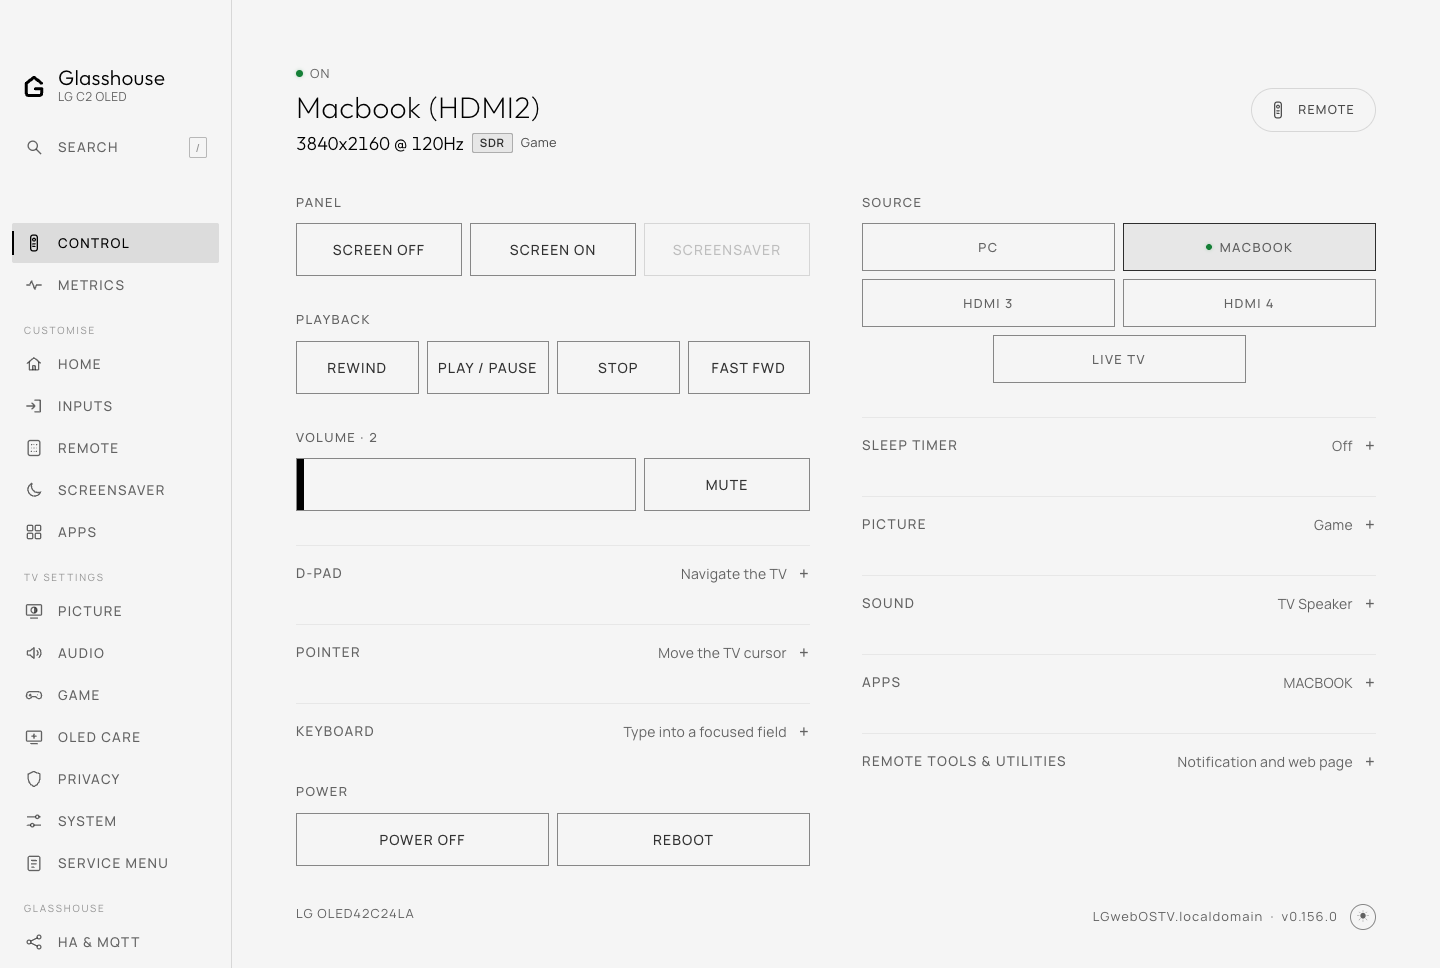
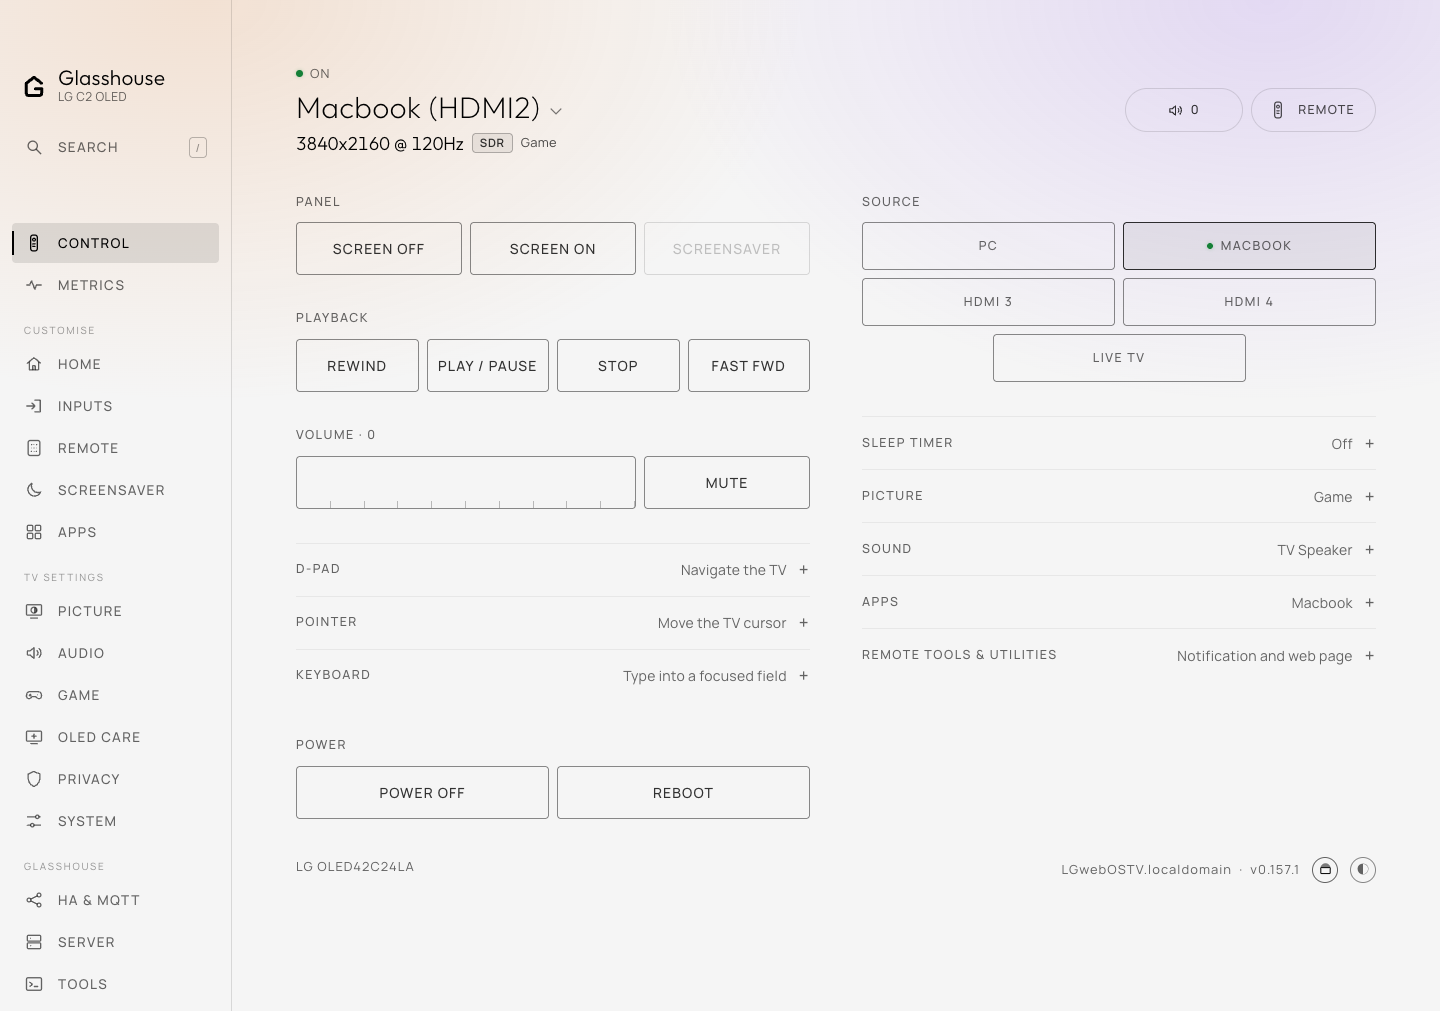
Screen glow: waits for PicCap and Hue Sync, documented, and in the screenshots
PicCap and Hue Sync stream from the TV's capture hardware, and a capture of
the glow's beside theirs could stall their stream: while either captures,
/api/screen-colour answers busy without a capture and the glow fades. The
dashboard overview has a Screen glow section, the PicCap and Hue Sync
pages say the glow waits for them, and the README's and docs' dashboard
screenshots are retaken with the glow on.

diff --git a/test/test-screencolour.js b/test/test-screencolour.js
@@ -103,7 +103,7 @@ console.log('  ✓ one capture for close requests, the service that answers kept
   var cfgPath = path.join(os.tmpdir(), 'tvweb-screenglow-' + process.pid + '.json');
   fs.writeFileSync(cfgPath, JSON.stringify({ port: 8080 }), 'utf8');
   var config = { web: { enabled: false }, token: '', allowControl: true };
-  var captures = 0;
+  var captures = 0, piccap = null, huesync = null;
   sc.init({
     luna: function (uri, payload, cb) { captures++; cb({ returnValue: false }); },
     readFile: function () { throw new Error('none'); },
@@ -114,6 +114,8 @@ console.log('  ✓ one capture for close requests, the service that answers kept
     configFile: cfgPath,
     version: '0.157.1',
     screenColour: sc,
+    piccapStatus: function (cb) { cb(piccap); },
+    huesyncStatus: function (cb) { cb(huesync); },
     updater: { updateSummary: function () { return { ok: true, writable: true }; } },
     privacy: { tvUpdatesBlocked: function () { return false; } }
   });
@@ -138,9 +140,18 @@ console.log('  ✓ one capture for close requests, the service that answers kept
   });
   controls.doControl('setScreenGlowAllowed', true, function (r) { checks++; assert.strictEqual(r.screenGlowAllowed, true); });
   get('/api/screen-colour', function (r) { checks++; assert.strictEqual(r.off, undefined); assert.ok(captures > 0); });
+  // PicCap or Hue Sync capturing: the glow waits, without a capture of its own.
+  var before = captures;
+  piccap = { running: true };
+  get('/api/screen-colour', function (r) { checks++; assert.deepEqual(r, { ok: false, busy: 'piccap' }); });
+  piccap = { running: false };
+  huesync = { streaming: true };
+  get('/api/screen-colour', function (r) { checks++; assert.deepEqual(r, { ok: false, busy: 'huesync' }); });
+  assert.strictEqual(captures, before, 'no capture beside theirs');
   try { fs.unlinkSync(cfgPath); } catch (e) {}
-  assert.strictEqual(checks, 4, 'every callback ran');
+  assert.strictEqual(checks, 6, 'every callback ran');
   console.log('  ✓ the Server tab switch saves the setting, and while it is off nothing is captured');
+  console.log('  ✓ while PicCap or Hue Sync captures the screen, the glow waits');
 })();
 
 console.log('ALL test-screencolour.js assertions passed!');

diff --git a/server/lib/routes.js b/server/lib/routes.js
@@ -2248,7 +2248,19 @@ function handleRequest(req, res) {
   // The colours on screen, for the dashboard's glow: colours only, no picture.
   if (pathname === '/api/screen-colour' && screenColourModule) {
     if (!screenGlowAllowed()) return send(res, 200, JSON.stringify({ ok: false, off: true }));
-    return screenColourModule.read(function (c) { send(res, 200, JSON.stringify(c)); });
+    /*
+     * PicCap and Hue Sync stream from the TV's capture hardware themselves, and
+     * a capture of ours beside theirs could stall their stream. While either is
+     * capturing, the glow waits. Their status is asked as the stats ask it for
+     * the Ambient Light tab, from the same caches.
+     */
+    return piccapStatusFn(function (pc) {
+      huesyncStatusFn(function (hs) {
+        var busy = pc && pc.running ? 'piccap' : hs && hs.streaming ? 'huesync' : null;
+        if (busy) return send(res, 200, JSON.stringify({ ok: false, busy: busy }));
+        screenColourModule.read(function (c) { send(res, 200, JSON.stringify(c)); });
+      });
+    });
   }
   if (pathname === '/api/storage' && storageScanModule) {
     // A rescan only by POST, so a page load never forces one.

diff --git a/server/assets/ui/glow.js b/server/assets/ui/glow.js
@@ -4,7 +4,8 @@
  * switched on with the footer's button, kept per browser, and offered only
  * where the Server tab allows it. Read from /api/screen-colour every few
  * seconds, only while the page shows and the screen is on, and not while the
- * source says a game is playing (ALLM), so a game's frames are left alone.
+ * source says a game is playing (ALLM), so a game's frames are left alone,
+ * nor while PicCap or Hue Sync is capturing the screen itself.
  * LG's Game picture mode alone does not stop it: a computer is often shown
  * in it for its low latency. Given up for the visit where the TV gives no
  * capture.
@@ -130,7 +131,9 @@ async function glowTick() {
   try {
     const d = await (await fetch(api('/api/screen-colour'), { cache: 'no-store' })).json();
     if (d && d.off) { glowAllowed(false); return; }
-    if (!d || !d.ok) glowFails++;
+    // PicCap or Hue Sync is capturing: no glow until it stops, and no failure.
+    if (d && d.busy) glowFade();
+    else if (!d || !d.ok) glowFails++;
     else {
       glowFails = 0;
       // Stronger on a bright picture, and nothing from a dark one.

diff --git a/docs/dashboard/server.md b/docs/dashboard/server.md
@@ -22,7 +22,7 @@ Shows the installed version and whether a newer release is out. **Check now** lo
 
 **Watch time** counts how long the screen is on, per app and input, for [the Metrics tab](metrics.md#watch-time) and Home Assistant. It is off by default, as it records what the household watches. **Clear history** deletes what has been kept, whether counting is on or off.
 
-**Screen glow** lets a dashboard light the top of its page with the colours on the TV's screen, the left and right halves each lighting their side, as a room takes its light from the TV. Each browser switches it on under **Preferences** in the sidebar, or with the glow button beside the light and dark switch at the foot of the page, and it is off until then. Searching for "glow" finds both. While it is on and the page shows, the dashboard reads the colours every 3 seconds: the TV captures its screen at 64 by 36 pixels, works out the colours and deletes the capture, so only the colours leave the TV. It pauses while the source says a game is playing, and gives nothing over protected video, such as Netflix's, which the TV captures as black. Switched off here, no dashboard can turn the glow on.
+**Screen glow** lets a dashboard light the top of its page with the colours on the TV's screen, the left and right halves each lighting their side, as a room takes its light from the TV. Each browser switches it on under **Preferences** in the sidebar, or with the glow button beside the light and dark switch at the foot of the page, and it is off until then. Searching for "glow" finds both. While it is on and the page shows, the dashboard reads the colours every 3 seconds: the TV captures its screen at 64 by 36 pixels, works out the colours and deletes the capture, so only the colours leave the TV. It pauses while the source says a game is playing, or while PicCap or Hue Sync is capturing the screen, and gives nothing over protected video, such as Netflix's, which the TV captures as black. Switched off here, no dashboard can turn the glow on. See [Screen glow](index.md#screen-glow).
 
 **Settings backup** saves the TV's settings to a file, and restores one, on the same TV or another. A restore sets only the settings the TV has and offers, each the way its switch on the dashboard would, skips those LG greys out at the moment, such as an HDMI input's settings while another input is on screen, and says how many it changed and skipped. Glasshouse restarts if its own settings changed. A backup also lists the apps installed from the Homebrew Channel or by hand. A restore installs none of them itself: those the TV lacks and the Homebrew Channel catalog has are offered on the [Apps tab](apps.md) with **Install all**, each through its usual preview, which stops for a choice such as root, and those not in the catalog are named to install by hand.
 

diff --git a/docs/dashboard/index.md b/docs/dashboard/index.md
@@ -116,6 +116,12 @@ For companion applications, see [Glasshouse apps](../apps/tv-app.md), including 
 
 The page works with no internet access, and has a dark/light mode toggle (via the UI or `/?theme=light`).
 
+## Screen glow
+
+The dashboard can take its light from the TV. The top of the page, the sidebar included, glows with the colours on the TV's screen, the left half's colour on the left and the right half's on the right, and fades as the picture changes, as a room takes its light from the TV. It is off until switched on in this browser under **Preferences** in the sidebar, or with the glow button beside the light and dark switch at the foot of the page. Searching for "glow" finds both.
+
+While the glow is on and the page shows, the TV captures a 64 by 36 pixel copy of its screen every 3 seconds, works out its colours and deletes the copy, so only the colours leave the TV. The glow pauses while the screen is off, while the source says a game is playing, and while PicCap or Hue Sync is capturing the screen, and protected video, such as Netflix's, gives none. **Screen glow** on the [Server](server.md) tab switches it off for every browser.
+
 The footer names the TV, by its DNS name where the home network's DNS has one or else by its address, beside the Glasshouse version, and gives its model where the TV's name does not already include it.
 
 Use the search button at the top of the sidebar (or press `/` or `Ctrl`/`Cmd` + `K`)
@@ -126,10 +132,10 @@ with the star beside a search result, keeping shortcuts to them in the sidebar.
 
 === "Dark theme"
 
-    ![Metrics tab: SoC temperature, system readouts, storage, watch time, Magic Remote battery and HDMI ports, dark theme (OLED42C24LA)](../screenshots/dashboard.png)
+    ![Metrics tab: SoC temperature, system readouts, storage and Magic Remote battery, dark theme, with the screen glow on (OLED42C24LA)](../screenshots/dashboard.png)
 
 === "Light theme"
 
-    ![Control tab: panel, source, volume, playback, sleep timer and power, light theme (OLED42C24LA)](../screenshots/dashboard-light.png)
+    ![Control tab: panel, source, volume, playback, sleep timer and power, light theme, with the screen glow on (OLED42C24LA)](../screenshots/dashboard-light.png)
 
-*Metrics and Control tabs, shown in dark and light themes.*
+*Metrics and Control tabs, shown in dark and light themes, with the [screen glow](#screen-glow) taking its colours from the TV.*

diff --git a/README.md b/README.md
@@ -88,11 +88,11 @@ This project is intended to give a rooted webOS TV a useful local control surfac
 ## Screenshots
 
 <p align="center">
-  <a href="docs/screenshots/dashboard.png"><img src="docs/screenshots/dashboard.png" alt="Metrics tab: SoC temperature, system readouts, storage, watch time, Magic Remote battery and HDMI ports, dark theme (OLED42C24LA)" width="440"></a>
+  <a href="docs/screenshots/dashboard.png"><img src="docs/screenshots/dashboard.png" alt="Metrics tab: SoC temperature, system readouts, storage and Magic Remote battery, dark theme, with the screen glow on (OLED42C24LA)" width="440"></a>
   &nbsp;
-  <a href="docs/screenshots/dashboard-light.png"><img src="docs/screenshots/dashboard-light.png" alt="Control tab: panel, source, volume, playback, sleep timer and power, light theme (OLED42C24LA)" width="440"></a>
+  <a href="docs/screenshots/dashboard-light.png"><img src="docs/screenshots/dashboard-light.png" alt="Control tab: panel, source, volume, playback, sleep timer and power, light theme, with the screen glow on (OLED42C24LA)" width="440"></a>
   <br>
-  <sub>Metrics and Control tabs, shown in dark and light themes.</sub>
+  <sub>Metrics and Control tabs, shown in dark and light themes, with the <a href="https://rorygallagher2024.github.io/glasshouse/dashboard/#screen-glow">screen glow</a> taking its colours from the TV.</sub>
 </p>
 
 [More screenshots](https://rorygallagher2024.github.io/glasshouse/#screenshots), including Home Assistant.

diff --git a/docs/index.md b/docs/index.md
@@ -41,11 +41,11 @@ Use it for remote control, app installation and removal, OLED panel care, privac
 === "Web dashboard"
 
     <p align="center">
-      <a href="screenshots/dashboard.png"><img src="screenshots/dashboard.png" alt="Metrics tab: SoC temperature, system readouts, storage, watch time, Magic Remote battery and HDMI ports, dark theme (OLED42C24LA)" width="440"></a>
+      <a href="screenshots/dashboard.png"><img src="screenshots/dashboard.png" alt="Metrics tab: SoC temperature, system readouts, storage and Magic Remote battery, dark theme, with the screen glow on (OLED42C24LA)" width="440"></a>
       &nbsp;
-      <a href="screenshots/dashboard-light.png"><img src="screenshots/dashboard-light.png" alt="Control tab: panel, source, volume, playback, sleep timer and power, light theme (OLED42C24LA)" width="440"></a>
+      <a href="screenshots/dashboard-light.png"><img src="screenshots/dashboard-light.png" alt="Control tab: panel, source, volume, playback, sleep timer and power, light theme, with the screen glow on (OLED42C24LA)" width="440"></a>
       <br>
-      <sub>Metrics and Control tabs in dark and light themes — served directly from the TV with no cloud or external dependencies.</sub>
+      <sub>Metrics and Control tabs in dark and light themes, with the <a href="dashboard/#screen-glow">screen glow</a> taking its colours from the TV, served directly from the TV with no cloud or external dependencies.</sub>
     </p>
 
 === "Remote"

diff --git a/docs/huesync.md b/docs/huesync.md
@@ -20,6 +20,8 @@ When Hue Sync is installed, the **Ambient Light** page (`/?tab=ambient`), below 
 * **On:** Instructs Hue Sync's service to start streaming (`com.lighting.huesync.service/set` with `{"key":"streaming","data":true}`). The selected entertainment area starts following the screen for ambient light. The app often does not start on an enable without saying so, so Glasshouse sends the enable, waits 3 seconds and asks the app's own state; if it still is not streaming, it sends the enable again, up to three tries in all: one click is enough.
 * **Off:** Instructs the service to stop (`data: false`). The app stops streaming colour data to the selected entertainment area.
 
+While Hue Sync is streaming, the dashboard's [screen glow](dashboard/index.md#screen-glow) waits, so its own captures never run beside Hue Sync's.
+
 ### Home Assistant integration
 
 When Hue Sync is answering on the TV, Glasshouse discovers a **Hue Sync** switch in Home Assistant (`switch.<tv_name>_huesync`) under the **Controls & Media** category:

diff --git a/docs/IMPLEMENTATION.md b/docs/IMPLEMENTATION.md
@@ -1577,7 +1577,10 @@ black.
 `assets/ui/glow.js` reads it while its browser has the glow on, the Server
 tab allows it (`screenGlow.allowed`, on unless switched off), the page shows
 and the header says the screen is on, and not while the stats'
-`signal_format.game_mode` is set. Each side's hue is raised to a fixed
+`signal_format.game_mode` is set. While PicCap is capturing or Hue Sync is
+streaming, which the route asks as `/api/stats` does for the Ambient Light tab,
+the route answers `{ ok: false, busy }` without a capture, as theirs and ours
+would share the capture hardware, and the glow fades until it stops. Each side's hue is raised to a fixed
 brightness, at least half saturated, so a dim picture still gives a colour;
 the picture's brightness sets how strong it shows. The two colours are
 registered custom properties, faded on the root. With the glow on, the body's

diff --git a/docs/piccap.md b/docs/piccap.md
@@ -26,6 +26,8 @@ When PicCap is installed, **Ambient Light** (`/?tab=ambient`), below Home in the
 
 This allows toggling ambient lighting instantly from any phone, tablet, or browser without needing to open the PicCap application on the TV or use the Magic Remote.
 
+While PicCap is capturing, the dashboard's [screen glow](dashboard/index.md#screen-glow) waits, so its own captures never run beside PicCap's.
+
 ### Home Assistant integration
 
 When PicCap is answering on the TV, Glasshouse discovers a **PicCap Capture** switch in Home Assistant (`switch.<tv_name>_piccap`) under the **Controls & Media** category:
